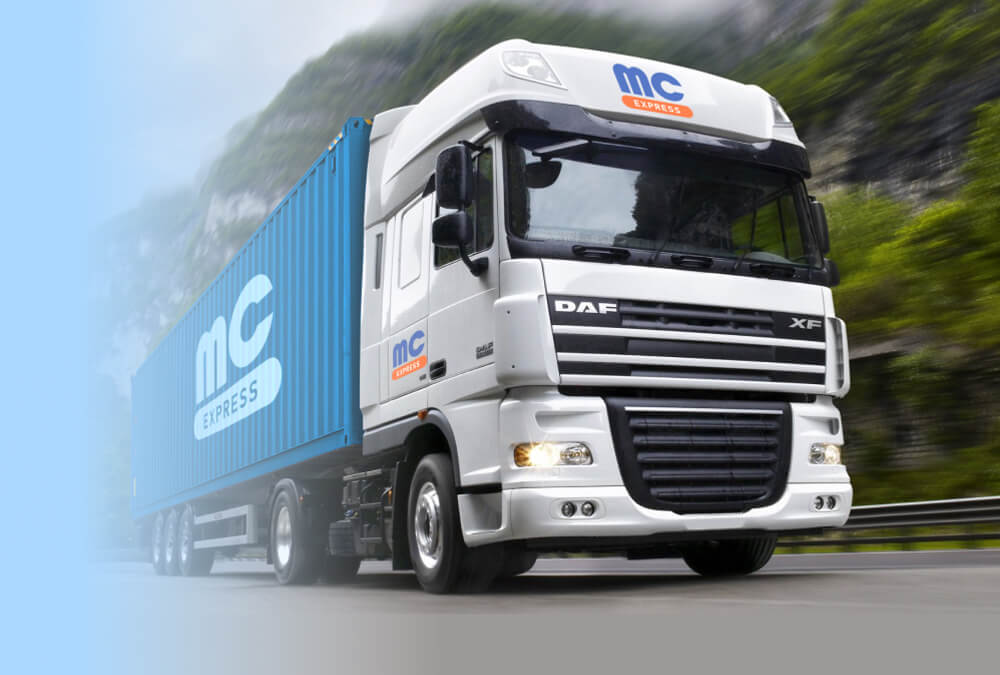
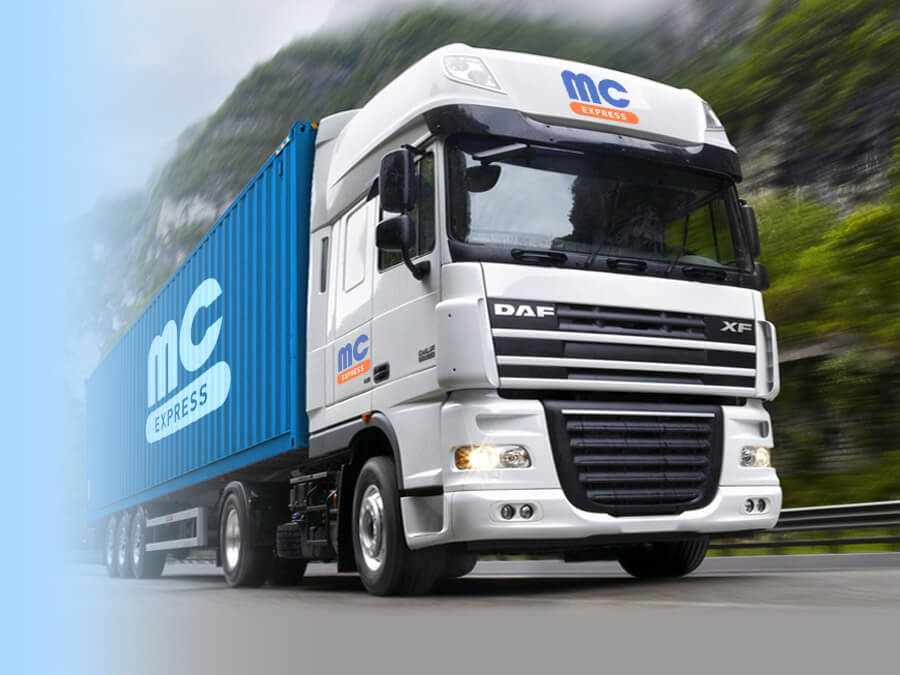
изменил фоновую картинку для хедера

diff --git a/css/style.css b/css/style.css
@@ -641,57 +641,3 @@ body {
 .slider__item img {
   max-width: 100%;
 }
-
-/* ------------------------------------89rem-------------------------------- */
-@media (max-width: 89rem) {
-  .container {
-    max-width: 80rem;
-  }
-}
-/* ------------------------------------75rem-------------------------------- */
-@media (max-width: 75rem) {
-  .container {
-    max-width: 70rem;
-  }
-
-  .navbar {
-    display: none;
-  }
-  .navbar-lang-container {
-    display: flex;
-  }
-  .header-container {
-    padding: 2rem 1rem 6rem 1rem;
-    justify-content: center;
-    flex-wrap: wrap;
-  }
-}
-
-/* ------------------------------------65rem-------------------------------- */
-@media (max-width: 65rem) {
-  .nav-menu-link {
-    font-size: 1rem;
-    font-weight: 400;
-  }
-}
-/* ------------------------------------58.75rem-------------------------------- */
-@media (max-width: 58.75rem) {
-}
-
-/* ------------------------------------42.3125rem-------------------------------- */
-@media (max-width: 42.3125rem) {
-  .header-container {
-    padding: 2rem;
-  }
-}
-/* ------------------------------------34.875rem-------------------------------- */
-@media (max-width: 34.875rem) {
-  .nav-menu {
-    display: grid;
-    justify-items: center;
-    padding-top: 1.25rem;
-  }
-}
-/* ------------------------------------23.125rem-------------------------------- */
-@media (max-width: 23.125rem) {
-}

diff --git a/index.html b/index.html
@@ -142,9 +142,9 @@
           <img src="img/fon_elips.png" alt="fon-elips" class="header-elips" />
         </picture>
         <picture>
-          <source srcset="img/bg_image.webp" type="image/webp" />
-          <source srcset="img/bg_image.jpg" type="image/jpg" />
-          <img src="img/bg_image.jpg" alt="DAF" />
+          <source srcset="img/bg_image01.webp" type="image/webp" />
+          <source srcset="img/bg_image01.jpg" type="image/jpg" />
+          <img src="img/bg_image01.jpg" alt="DAF" />
         </picture>
       </div>
     </header>
